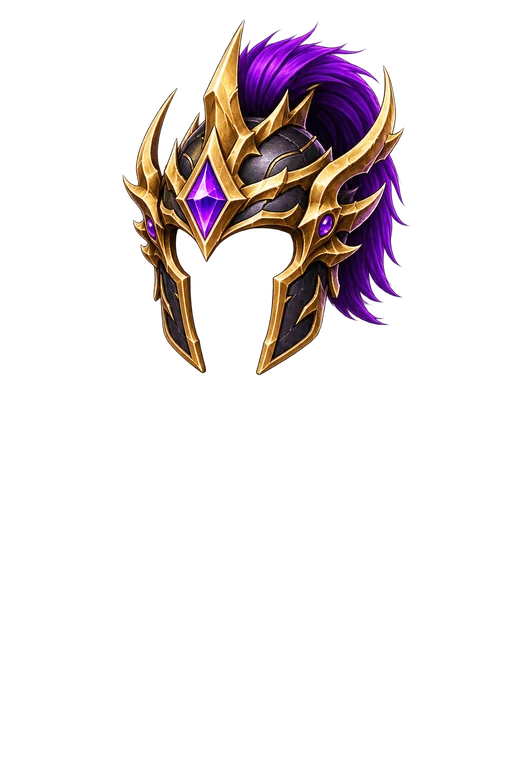
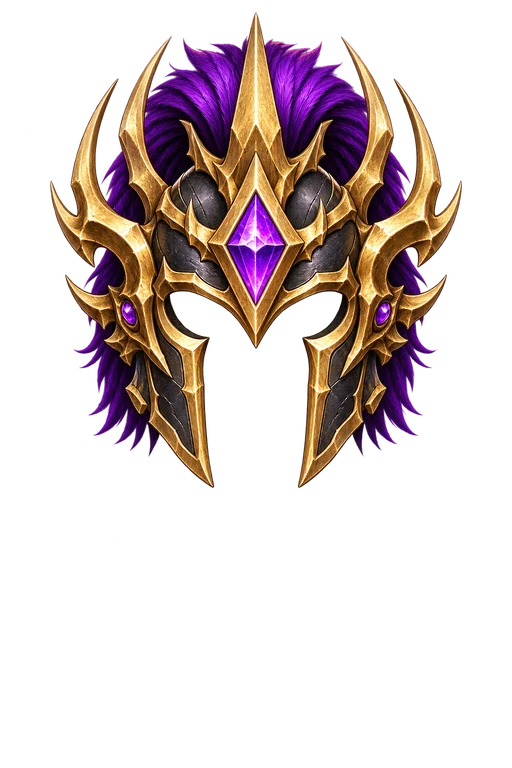
Fit front-facing helmets and held swords; complete four armor sets with leg plates

Changed region(s): [[0.0938, 0.0, 0.9062, 0.6562]]

diff --git a/assets/character/warrior.js b/assets/character/warrior.js
@@ -2,8 +2,8 @@
 const valorDollParts={Silah:'weapon',Zırh:'armor',Kask:'helmet',Ayakkabı:'boots'};
 function valorDollTier(it){return Math.max(1,Math.min(4,Math.ceil((Number(it?.level)||1)/25)))}
 const valorDollSets=['veyrak','varkhan','mordrak','lumeris'];
-function valorDollLayer(part,it){const tier=valorDollTier(it),set=valorDollSets[tier-1],epic=!!it?.epic,pose=it&&valorDollPoses[set]?.[part],transform=pose?';transform:translate('+pose[2]+'%,'+pose[3]+'%) scale('+pose[0]+','+pose[1]+')':'';return '<div class="vd-layer vd-'+part+(it?' vd-set-'+set:'')+(epic?' vd-epic':'')+'" role="img" aria-label="'+escapeAttr(it?it.name:'Temel kıyafetli savaşçı')+'" data-doll-part="'+part+'"'+(it?' data-doll-set="'+set+'"':'')+' style="background-image:url(assets/character/'+(it?set+'/'+part:'warrior-base')+'.webp)'+transform+'"></div>'}
-function valorWarriorDoll(){const eq=state.equipped||{},wing=typeof valorWings!=='undefined'?valorWings.find(w=>w.id===eq.Kanat?.wingId):null;return '<div class="vp-hero vd-hero"><div class="vd-backdrop"></div>'+(wing?'<div class="vd-wings" role="img" aria-label="'+escapeAttr(wing.name)+'" style="background-image:url('+valorWingArt(wing)+')"></div>':'')+'<div class="vd-stack">'+valorDollLayer('base')+(eq.Silah?valorDollLayer('weapon',eq.Silah):'')+['Zırh','Ayakkabı','Kask'].map(slot=>eq[slot]?valorDollLayer(valorDollParts[slot],eq[slot]):'').join('')+'</div></div>'}
+function valorDollLayer(part,it){const tier=valorDollTier(it),set=valorDollSets[tier-1],epic=!!it?.epic,pose=it&&valorDollPoses[set]?.[part],transform=pose?';transform:translate('+pose[2]+'%,'+pose[3]+'%) rotate('+(pose[4]||0)+'deg) scale('+pose[0]+','+pose[1]+')':'';return '<div class="vd-layer vd-'+part+(it?' vd-set-'+set:'')+(epic?' vd-epic':'')+'" role="img" aria-label="'+escapeAttr(it?it.name:'Temel kıyafetli savaşçı')+'" data-doll-part="'+part+'"'+(it?' data-doll-set="'+set+'"':'')+' style="background-image:url(assets/character/'+(it?set+'/'+part:'warrior-base')+'.webp?v=2)'+transform+'"></div>'}
+function valorWarriorDoll(){const eq=state.equipped||{},wing=typeof valorWings!=='undefined'?valorWings.find(w=>w.id===eq.Kanat?.wingId):null;return '<div class="vp-hero vd-hero"><div class="vd-backdrop"></div>'+(wing?'<div class="vd-wings" role="img" aria-label="'+escapeAttr(wing.name)+'" style="background-image:url('+valorWingArt(wing)+')"></div>':'')+'<div class="vd-stack">'+valorDollLayer('base')+(eq.Silah?valorDollLayer('weapon',eq.Silah):'')+(eq.Zırh?valorDollLayer('leggings',eq.Zırh):'')+['Zırh','Ayakkabı','Kask'].map(slot=>eq[slot]?valorDollLayer(valorDollParts[slot],eq[slot]):'').join('')+'</div></div>'}
 const vdPreviousProfile=profile;profile=function(){const html=vdPreviousProfile();if(state.class!=='Savaşçı')return html;return html.replace(/<div class="vp-hero"><img\b[^>]*><\/div>/,()=>valorWarriorDoll())};
 /* Items remain in the bag while equipped, so removing them must not duplicate them. */
 unequip=function(slot){const it=state.equipped?.[slot];if(!it)return;if(!(state.inventory||[]).some(i=>String(i.id)===String(it.id)))state.inventory.push(it);delete state.equipped[slot];save();render();toast(it.name+' çıkarıldı')};

diff --git a/assets/character/poses.js b/assets/character/poses.js
@@ -1,1 +1,1 @@
-const valorDollPoses={"veyrak":{"weapon":[0.409165,0.447761,2.289568,42.997901],"armor":[0.61157,0.658128,19.079287,6.834719],"helmet":[0.332155,0.344286,32.517806,-0.330915],"boots":[0.676768,0.565089,15.671362,47.664532]},"varkhan":{"weapon":[0.478011,0.452261,5.783752,42.566347],"armor":[0.606557,0.607273,19.334337,8.976089],"helmet":[0.354717,0.383148,31.99661,-0.476948],"boots":[0.640808,0.503294,18.66075,51.921902]},"mordrak":{"weapon":[0.459559,0.447126,3.19537,42.855083],"armor":[0.59919,0.593778,19.533622,9.150926],"helmet":[0.330986,0.339437,33.259518,-0.363116],"boots":[0.629436,0.511379,19.260606,51.006282]},"lumeris":{"weapon":[0.649351,0.63253,3.582843,31.332361],"armor":[0.616025,0.683726,18.521763,7.358837],"helmet":[0.382892,0.408475,30.965584,-0.356749],"boots":[0.657579,0.494819,16.66546,52.704522]}};
+const valorDollPoses={"veyrak":{"weapon":[0.43,0.43,-1.070955,45.289696,-8],"armor":[0.61157,0.658128,19.079287,6.834719],"helmet":[0.322489,0.282101,33.639332,-2.632666],"boots":[0.676768,0.565089,15.671362,47.664532],"leggings":[0.783172,0.74184,10.060174,26.751631]},"varkhan":{"weapon":[0.46,0.46,4.340705,43.079887,-8],"armor":[0.606557,0.607273,19.334337,8.976089],"helmet":[0.240506,0.250865,38.021657,-3.586361],"boots":[0.640808,0.503294,18.66075,51.921902],"leggings":[0.835924,0.736739,7.136833,28.452695]},"mordrak":{"weapon":[0.45,0.45,1.517365,44.422619,-8],"armor":[0.59919,0.593778,19.533622,9.150926],"helmet":[0.277372,0.305585,36.131387,-2.470391],"boots":[0.629436,0.511379,19.260606,51.006282],"leggings":[0.734446,0.682439,12.245412,31.904892]},"lumeris":{"weapon":[0.64,0.64,-0.33955,32.723237,-8],"armor":[0.616025,0.683726,18.521763,7.358837],"helmet":[0.238994,0.252393,38.050314,-2.396785],"boots":[0.657579,0.494819,16.66546,52.704522],"leggings":[0.821732,0.766871,7.77105,26.021696]}};

diff --git a/assets/character/warrior.css b/assets/character/warrior.css
@@ -1,8 +1,8 @@
 html body #main .vp-wrap .vp-scene .vd-hero{background:#11100f!important;isolation:isolate}
 .vd-backdrop{position:absolute;inset:0;background:radial-gradient(ellipse at 50% 33%,#8c683d44,transparent 62%),radial-gradient(ellipse at 50% 100%,#674b2a55,transparent 40%),linear-gradient(145deg,#24201b,#0d1014 70%);z-index:0}
-.vd-stack{position:absolute;top:0;bottom:0;left:50%;height:100%;aspect-ratio:2/3;transform:translateX(-50%);z-index:2;pointer-events:none}
+.vd-stack{position:absolute;top:4%;bottom:auto;left:50%;height:94%;aspect-ratio:2/3;transform:translateX(-50%);z-index:2;pointer-events:none}
 .vd-layer{position:absolute;inset:0;background-size:100% 100%;background-position:center;background-repeat:no-repeat;pointer-events:none;transform-origin:0 0}
-.vd-base{z-index:2}.vd-weapon{z-index:1}.vd-armor{z-index:3}.vd-boots{z-index:4}.vd-helmet{z-index:5}
+.vd-base{z-index:2}.vd-weapon{z-index:1}.vd-leggings{z-index:2}.vd-armor{z-index:3}.vd-boots{z-index:4}.vd-helmet{z-index:5}
 .vd-wings{position:absolute;left:50%;top:9%;width:77%;height:67%;transform:translateX(-50%);background-size:contain;background-position:center;background-repeat:no-repeat;z-index:1;pointer-events:none;filter:drop-shadow(0 0 5px #b7b3dd33)}
 .vd-layer.vd-epic{filter:drop-shadow(0 0 3px #f2d076) drop-shadow(0 0 7px #ffc04d66);animation:vd-epic-pulse 2.8s ease-in-out infinite}
 @keyframes vd-epic-pulse{0%,100%{filter:drop-shadow(0 0 2px #f2d076aa) drop-shadow(0 0 5px #ffc04d44)}50%{filter:drop-shadow(0 0 4px #ffe8a6) drop-shadow(0 0 9px #ffc04d88)}}

diff --git a/index.html b/index.html
@@ -1292,4 +1292,4 @@ function valorArenaPage(){const d=valorArenaData(),remaining=Math.max(0,10-d.use
 battle=valorArenaPage;
 const valorArenaPreviousFight=fight;
 fight=function(mode){if(mode==='Savaş'){go('Savaş');return}return valorArenaPreviousFight(mode)};
-</script><style id="arena-twenty-rivals">.arena-rivals{max-height:560px;overflow-y:auto;padding:2px 4px 2px 2px;scrollbar-width:thin;scrollbar-color:#a68449 #211a12}.arena-rival .arena-difficulty{color:#ddc086;font-size:10px}.arena-section-heading h2{font-size:18px}@media(max-width:520px){.arena-rivals{max-height:55dvh}}</style><link rel="stylesheet" href="assets/fashion/fashion.css?v=2"><script src="assets/fashion/fashion.js?v=2"></script><link rel="stylesheet" href="assets/character/warrior.css?v=1"><script src="assets/character/poses.js?v=1"></script><script src="assets/character/warrior.js?v=1"></script></body></html>
+</script><style id="arena-twenty-rivals">.arena-rivals{max-height:560px;overflow-y:auto;padding:2px 4px 2px 2px;scrollbar-width:thin;scrollbar-color:#a68449 #211a12}.arena-rival .arena-difficulty{color:#ddc086;font-size:10px}.arena-section-heading h2{font-size:18px}@media(max-width:520px){.arena-rivals{max-height:55dvh}}</style><link rel="stylesheet" href="assets/fashion/fashion.css?v=2"><script src="assets/fashion/fashion.js?v=2"></script><link rel="stylesheet" href="assets/character/warrior.css?v=2"><script src="assets/character/poses.js?v=2"></script><script src="assets/character/warrior.js?v=2"></script></body></html>
